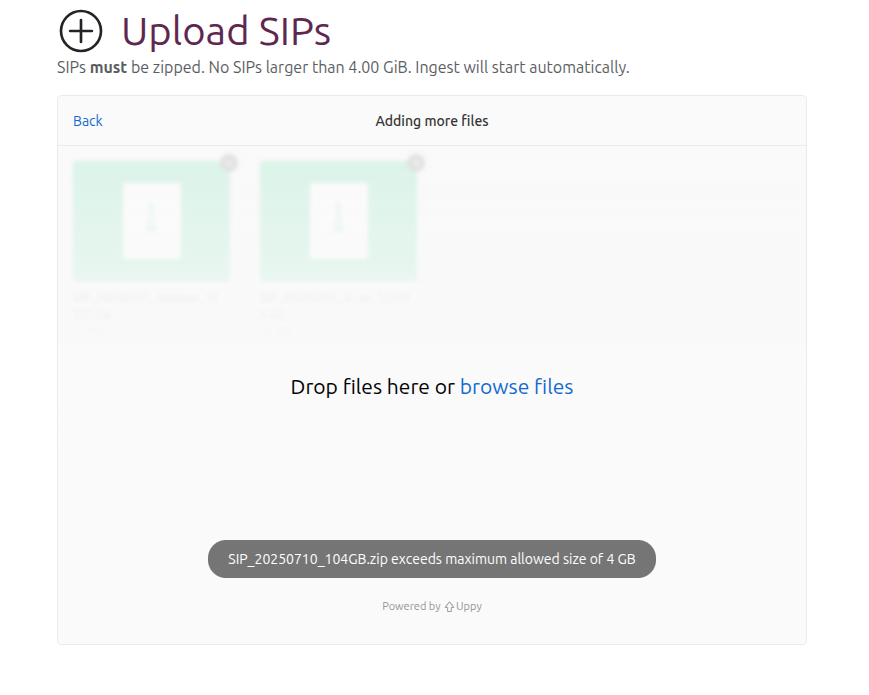
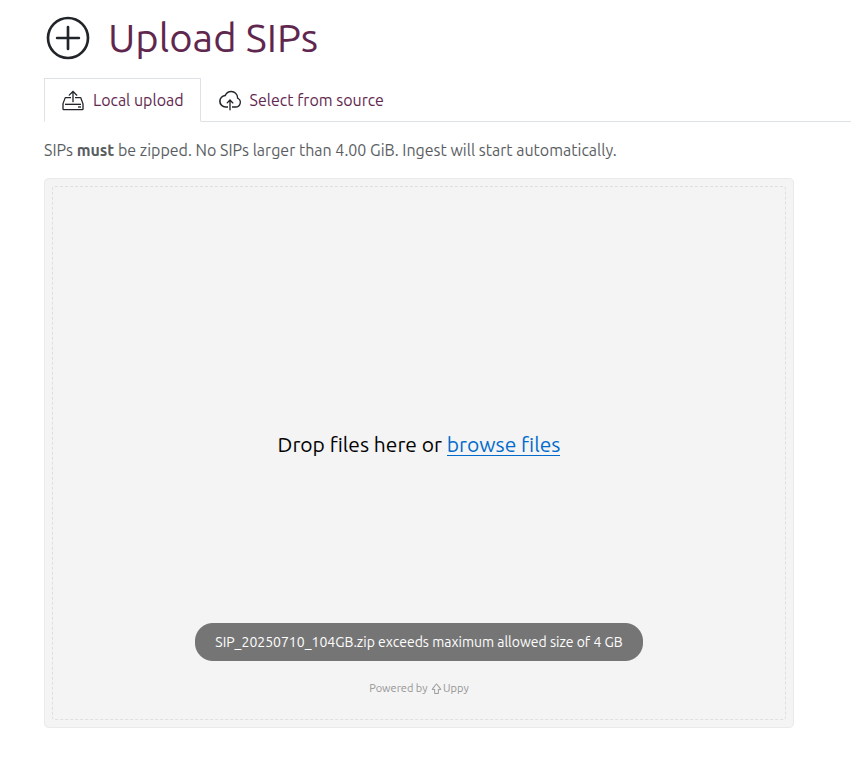
Add source location ingest docs

Changed region(s): [[0.0306, 0.0, 0.7333, 0.2115], [0.2139, 0.7554, 0.7638, 0.9065], [0.3361, 0.5439, 0.6722, 0.6043]]

diff --git a/docs/src/user-manual/ingest/submitting-content.md b/docs/src/user-manual/ingest/submitting-content.md
@@ -41,7 +41,7 @@ in the Archivematica documentation.
 
 Enduro includes an upload page that allows operators to upload SIPs for ingest
 directly via the web browser. A system administrator can define a **package
-upload size limit** via configuration - when configured the browser will check
+upload size limit** [via configuration] - when configured the browser will check
 the package size upon submission and return an error to the operator if the
 package exceeds the configured limit.
 
@@ -112,23 +112,82 @@ package exceeds the configured limit.
    at the top of the browse results. Each SIP uploaded will be ingested via its
    own separate workflow.
 
-## Add SIPs via a source location
+## Initiate ingest using SIPs uploaded to a source location
 
-Coming soon!
+Another method of initiating ingest is by selecting packages previously uploaded
+to a [source location]. A **source location** is an object storage location or
+filesystem directory that [can be configured] for the deposit of packages for
+further action by Enduro operators. Unlike a [watched location] where an action
+is automatically triggered upon deposit, a source location is intended for
+asynchronous manual follow-up. In this case, Enduro operators can select zipped
+packages found in a configured source location and initiate ingest via the user
+interface.
+
+The deposit or upload process will depend on the source location used - to see
+an example of how packages are uploaded to a [MinIO] object store, see the
+watched location [example shown below](#example---upload-via-minio).
+
+**To initiate ingest using SIPs in a source location**:
+
+1. Using the [navbar](../overview.md#navigation) on the left side of the screen,
+   click on "Upload SIPs." Enduro will redirect you to the SIP upload  page.
+
+    ![The upload SIPs page](../screenshots/local-upload.png)
+
+2. For SIP ingest from a source location, click the "Select from source" tab at
+   the top of the page. Enduro will display a picker interface showing any
+   zipped packages that have been added to the configured source location
+
+    !!! warning
+
+        SIPs **must be zipped** to be visible in the configured source location
+        from the Enduro user interface. Other files will not be shown in Enduro
+        to avoid errors during the ingest configuration.
+
+        SIPs _may_ be placed in subdirectories, but these subdirectories will
+        only be visible as part of the filepath of the ZIP - see for example the
+        last SIP shown in the screenshot below, which is in a `my-stuff`
+        folder in the configured source location. This means that any
+        subdirectories added to the source location that do **not** have one or
+        more zipped SIPs added to them will also not be shown in the source
+        location picker in the Enduro user interface.
+
+    ![The source location SIP picker](../screenshots/sip-source-upload-selection.png)
+
+3. The "Start ingest" button at the bottom of the configuration page will be
+   disabled until at least one SIP is selected from the picker. You can use the
+   checkboxes next to the SIPs listed to select one or more SIPs for ingest.
+
+    A count of selected SIPs will be shown above the right side of the picker.
+    You can click the "Select all" link to select all SIPs in the source
+    location, and/or use the "Clear all selections" link to uncheck any
+    previously selected SIPs.
+
+    ![2 SIPs selected from a source location](../screenshots/sip-source-start-upload.png)
+
+4. When you are happy with your SIP selection, click the "Start ingest" button
+   at the bottom of the page.
+
+    After a moment, the page will reload and you will be redirected to the SIP
+    browse page, where any new worklfows started by this process  will be
+    visible at the top of the browse results. Each SIP uploaded will be ingested
+    separately in its own separate workflow.
+
+    ![SIP ingests started from a source location](../screenshots/sip-source-upload-started.png)
 
 ## Initiate ingest via a watched location upload
 
 It is also possible to configure Enduro to use a watched location for ingest.
-This must be configured by a system administrator first. The configured watched
-location can either be a local filesystem directory or an object store bucket
-(such as one provided by MinIO, S3, or Azure).
+This must be [configured by a system administrator] first. The configured
+watched location can be an object store bucket such as one provided by MinIO,
+S3, or Azure.
 
 Once configured, any time a new zipped package is added to the location,
 Enduro's [messaging queue][mq] will see it and automatically initiate an ingest
 workflow.
 
 The example below will use [MinIO][MinIO] - details may vary depending on the
-type of watched location used.
+type of object store used.
 
 !!! note
 
@@ -154,6 +213,11 @@ type of watched location used.
 [a3m]: https://github.com/artefactual-labs/a3m
 [Archivematica]: https://archivematica.org
 [BagIt]: https://tools.ietf.org/html/rfc8493
+[can be configured]: ../../admin-manual/configuration.md#sip-source-location-configuration
+[configured by a system administrator]: ../../admin-manual/configuration.md#watched-location-configuration
 [MinIO]: https://min.io/
 [mq]: ../components.md#messaging-queue
+[source location]: ../glossary.md#source-location
 [Unzipped and zipped bags]: https://www.archivematica.org/docs/latest/user-manual/transfer/bags/#bags
+[via configuration]: ../../admin-manual/configuration.md#user-interface-sip-upload-filesize-limit
+[watched location]: ../glossary.md#watched-location
